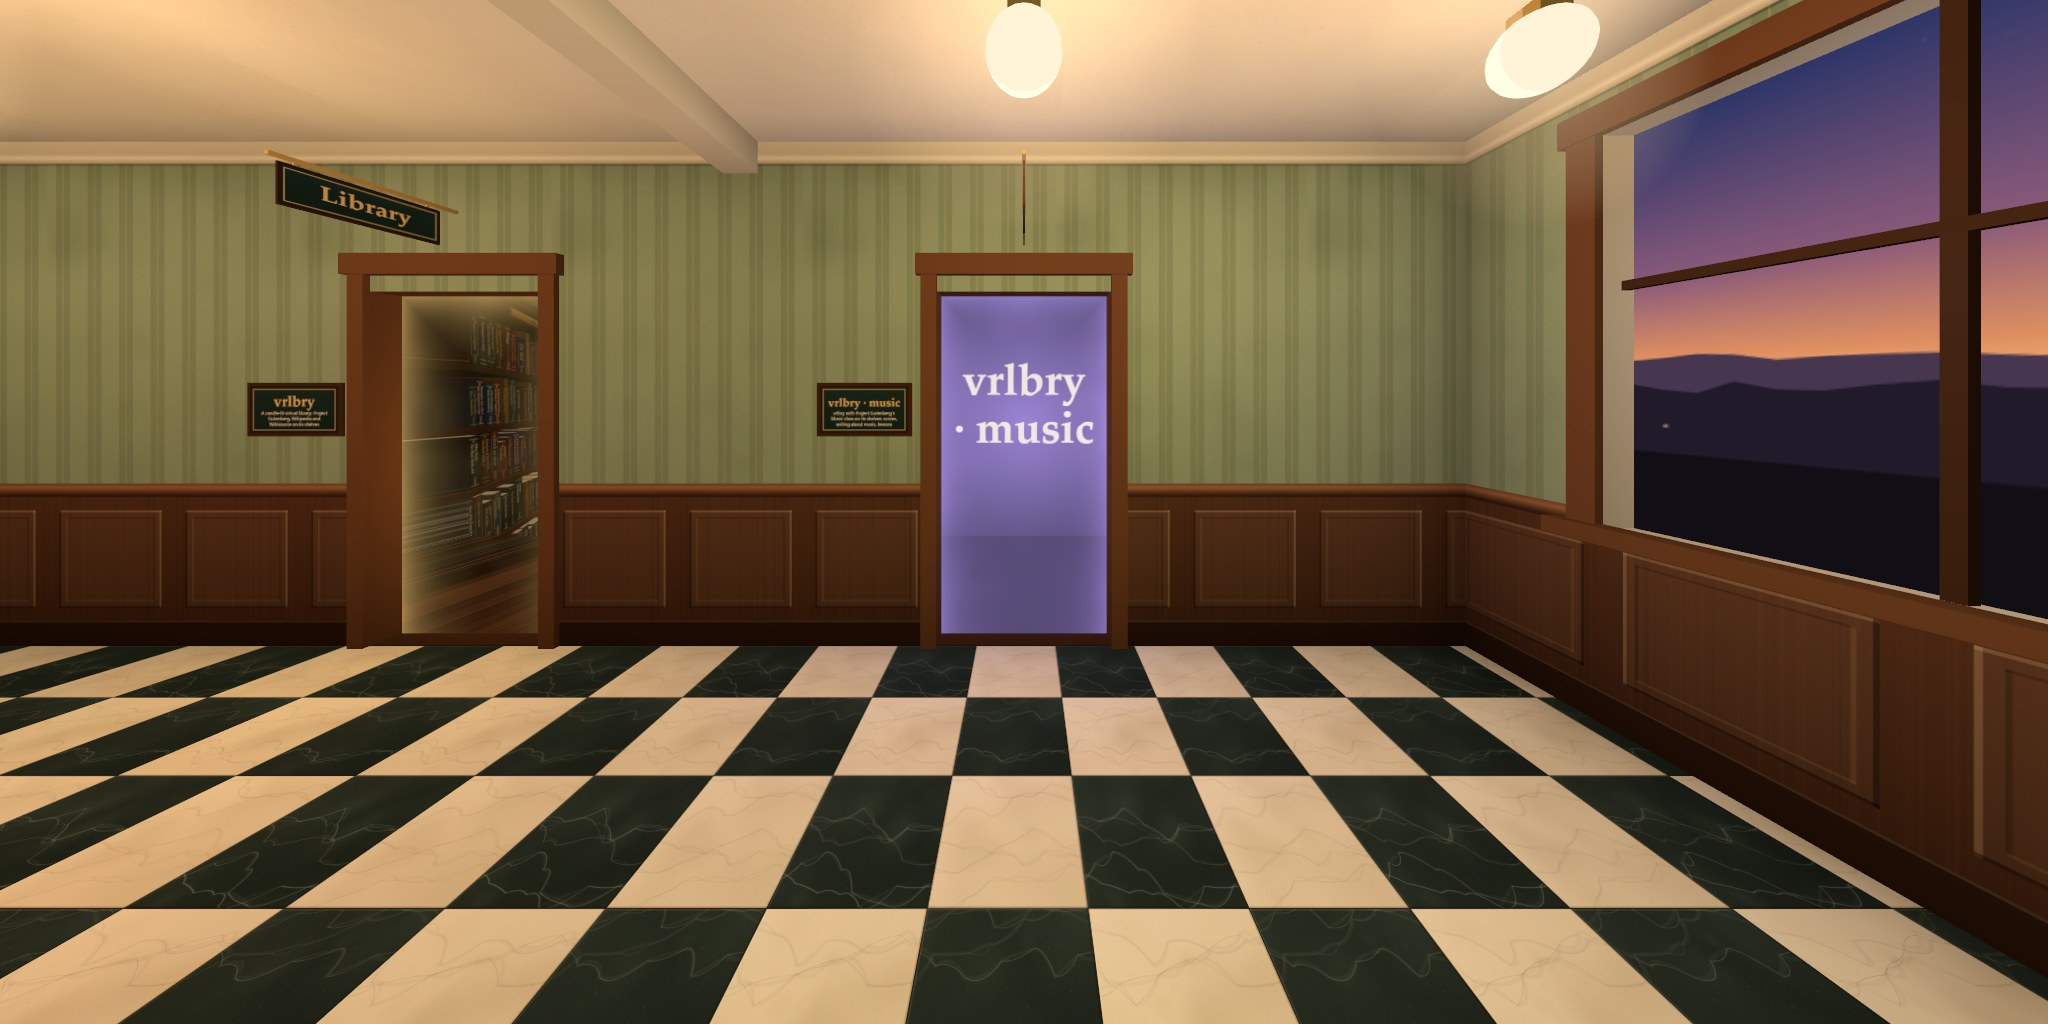
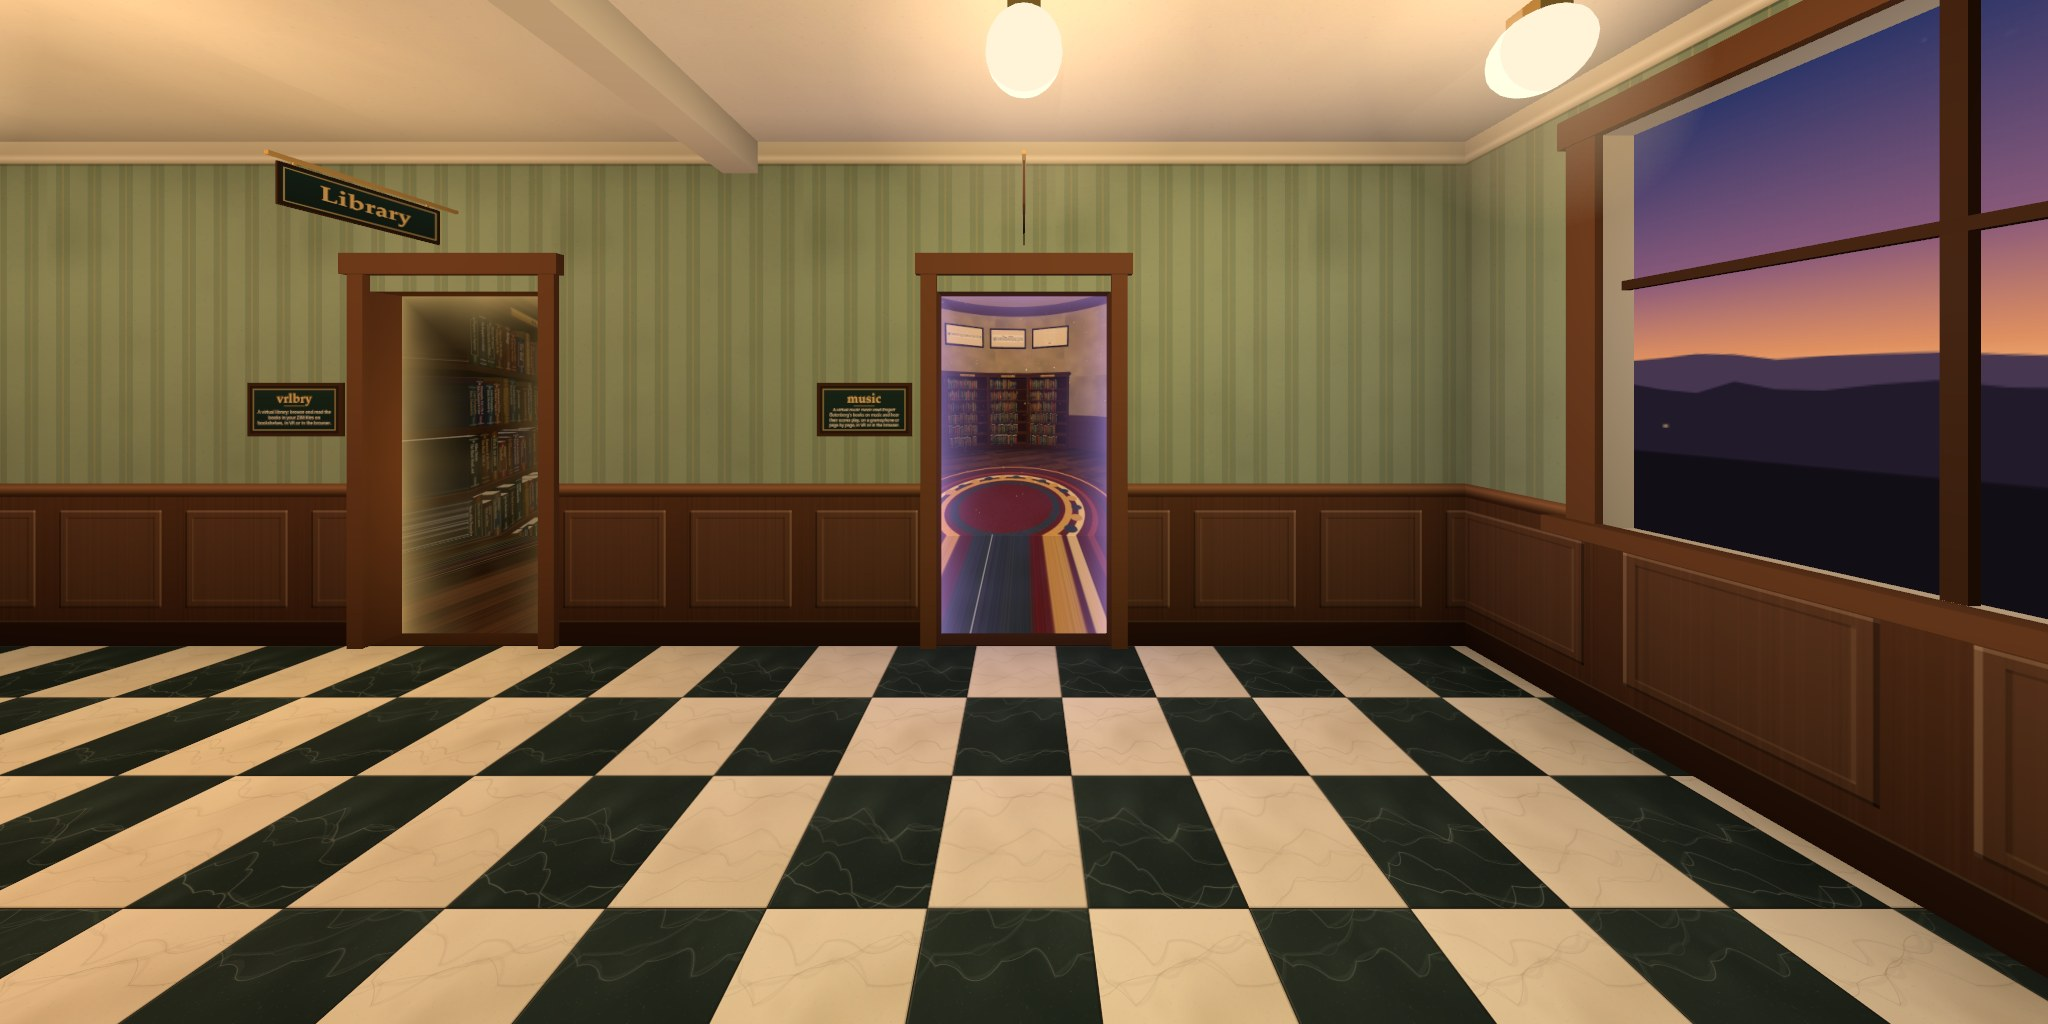
hallway-view.mjs: the hallway has its door to here; the hall seen out of it, again
tools/hallway-view.mjs added HALLWAY_DOOR to its copy of the hallway's
environments.js every time. The hallway has had that door since its
9dd2d5a, so the next run would have rendered a hall with a second one.
It now adds the door only when the copy has no entry with id 'outside'
(as the hallway writes it, or as JSON), and says which it did.

Run again, it leaves the hallway's door as it is. The view's parameters
come out the same; the picture shows the hall as it is now: the music
door across the way, with its room through it and "music" on its
plaque, where the old one had a "vrlbry · music" placeholder. It matches
the hallway's own views/outside.jpg. The bad-password count was 0
before and after the run.

The view from a door is in common's README now ("The view from your
door"), not the hallway's: house.js, main.js, the tool, its views.json
"about" and CLAUDE.md say so, and that this copy is for when the
hallway's can't be had, rather than until it publishes one.

Checked in the browser pane: from a door link whose way back is the
hallway's dev server (not running), the doorway falls back to
views/views.json and shows the new picture. npm test: 38 pass.

Changed region(s): [[0.4062, 0.2812, 0.5625, 0.625], [0.125, 0.375, 0.1562, 0.4375]]

diff --git a/public/js/main.js b/public/js/main.js
@@ -110,8 +110,8 @@ scene.add(rig);
 const L = layoutGarden({ doorWidth, doorHeight });
 const garden = buildGarden(L, { names, glow, anisotropy });
 scene.add(garden.group);
-// Through the doorway, the view the hallway publishes from its door to here; until it does, the
-// one rendered from it with that door added (tools/hallway-view.mjs). Elsewhere, its glow and name.
+// Through the doorway, the view the hallway publishes from its door to here; when that can't be
+// had, the one rendered from it here (tools/hallway-view.mjs). Elsewhere, its glow and name.
 const views = hallwayViews(way, OUTSIDE_ID);
 if (views) garden.house.loadView([views, { views: new URL('views/views.json', location.href).href, id: views.id }]);
 

diff --git a/public/js/house.js b/public/js/house.js
@@ -3,8 +3,8 @@
 // behind them, a slate roof and chimneys; in it, the door back, in a stone doorcase, under the
 // hallway's enamel sign, its plaque beside it and the control panel the other side. The doorway
 // glows like the hallway's own doorways and shows the hall through it: the view the hallway
-// publishes out of its door to here (its README, "The view from your door"), or a picture of our
-// own until that can be read.
+// publishes out of its door to here (common's README, "The view from your door"), or a picture of
+// our own when that can't be read.
 import * as THREE from 'three';
 import { HOUSE, PANEL, PLAQUE } from './garden.js';
 import { Builder } from './builder.js';

diff --git a/CLAUDE.md b/CLAUDE.md
@@ -23,7 +23,7 @@ npm install                  # postinstall: tools/vendor.mjs copies three, commo
 npm start                    # tools/serve.mjs: public/ on http://localhost:8090/ (IPv6 only on Windows; for a Quest: npm start -- --host 127.0.0.1)
 npm test                     # node --test "test/*.test.js"
 node tools/preview.mjs       # public/hallway-preview.jpg, the garden for the hallway's doorway (headless Chrome)
-node tools/hallway-view.mjs  # public/views/, the hall seen out of its door to here, from a copy of ../hallway with the door added
+node tools/hallway-view.mjs  # public/views/, the hall seen out of its door to here, from a copy of ../hallway (the door added if it has none)
 ```
 
 Node 22 or newer (`engines`, and what CI uses; `tools/lib/chrome.mjs` needs its built-in WebSocket). It runs under MSYS2 UCRT64 here (`MSYSTEM=UCRT64 /c/msys64/usr/bin/bash -lc 'cd /c/git/my/claude/outside && …'`).
